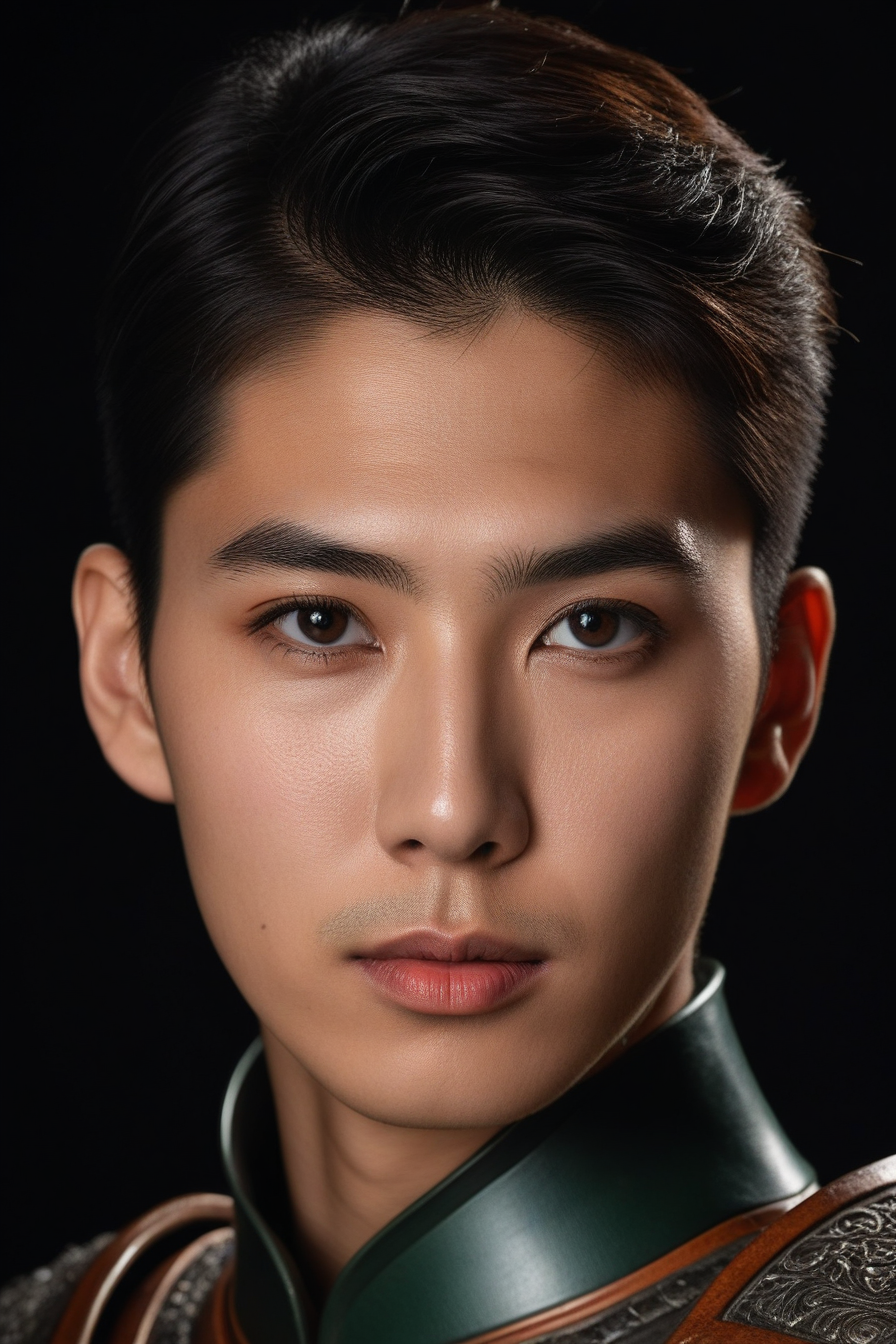
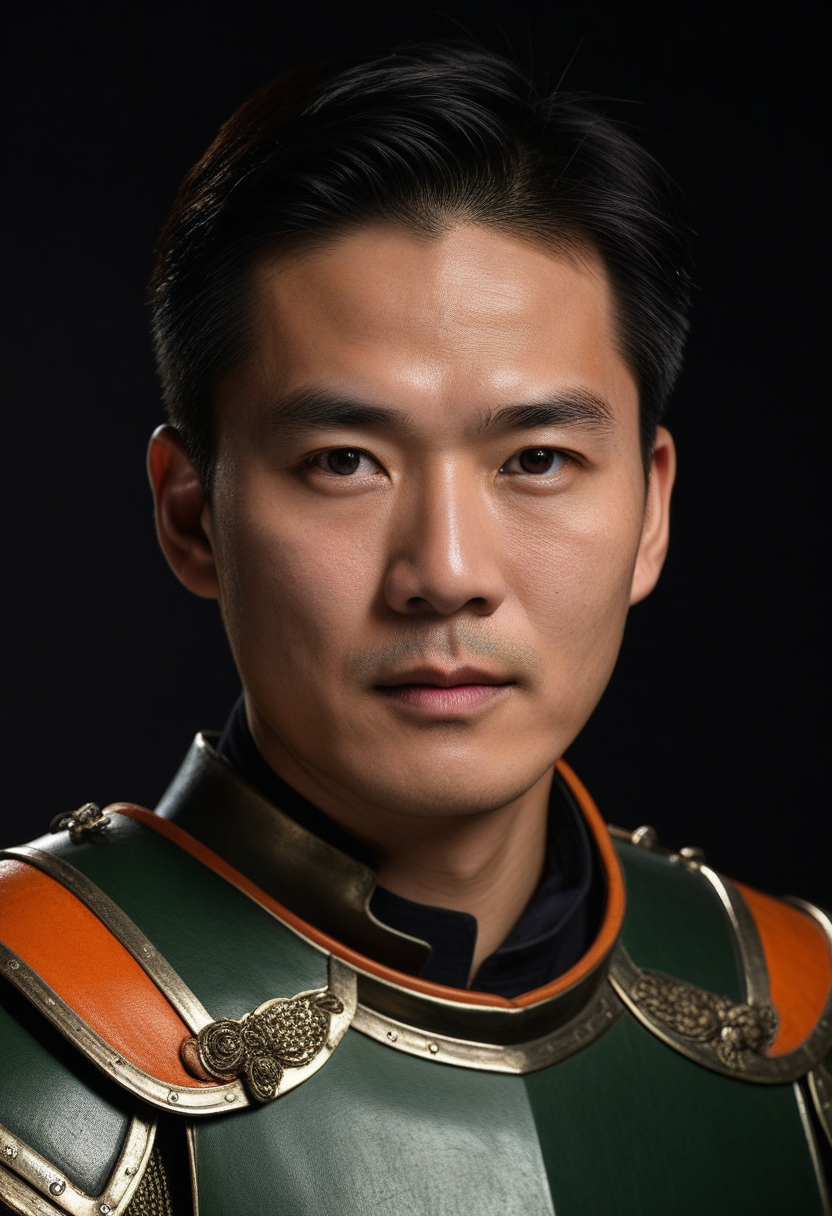
feat(v31): 24 角色写实立绘批量重生成（中文族裔/年龄/服装约束）+ 角色驱动试镜视频 demo
- 写实立绘 v2：按合同自动拼 prompt_extra（Chinese/East Asian/性别/年龄/发型/服装/配饰），逐角色重生成 24/24（298.6s，单条约 10-12.5s），修复旧版性别/族裔漂移
- 试镜视频 demo：老周写实立绘 16:9 → H3 audio_ref（TTS 台词 7.32s）→ 7.29s/1024x576/有音轨/3m11s 生成；/media/character_demos/laozhou_real_talk.mp4
- 证据：tmp/v31（v1/v2 对比图、24 角色总览、帧 sheet、UI 截图）；文档 docs/V31

diff --git a/docs/V31_CHARACTER_REAL_AND_VIDEO.md b/docs/V31_CHARACTER_REAL_AND_VIDEO.md
@@ -1,0 +1,66 @@
+# V31：写实立绘批量重生成（v2）+ 角色驱动试镜视频
+
+> 用户：「角色有 3D 角色/真人角色么」→ 确认 24 角色已有 动漫/2.5D/写实 三版；「好的开始做吧 还有 然后在根据角色生成一遍视频我看一下」
+> 交付：① 24 个角色写实立绘批量重生成（带中文族裔/年龄/服装约束，修复旧版偏差）；② 用角色立绘 + 角色声音生成一支 7.29s 试镜视频（H3 图生视频 + 口型同步）。
+
+## 1. 写实立绘批量重生成
+
+### 问题（旧版）
+- 旧 `portrait_real.png` 为 2026-10 早期生成：部分角色与设定不符（如曹操写实版偏女性化）、年龄/服装漂移
+- imagegen 默认 `realistic` 提示词（RealVisXL）偏向西方面孔，直接重生成会出现族裔漂移
+
+### 做法
+- 用 `POST /api/v5/characters/{id}/art {style:"realistic", prompt_extra, force:true}`
+- 按角色合同自动拼 `prompt_extra`：`Chinese + era（modern/历史）`、`East Asian facial features`、性别、年龄、发色+发型、服装类型+主色、配饰；robot/mystery_guest 单独提示词
+- 逐角色串行（GPU 锁），先备份旧图到 `tmp/v31/backup_real/`（v1 再备份 `backup_real_v1/`）
+
+### 结果
+| 轮次 | 角色数 | 总耗时 | 单角色 | 说明 |
+|---|---|---|---|---|
+| v1（无族裔约束） | 24 | 266.8s | 10.4–12.4s | 修复了曹操性别，但出现西方面孔漂移 |
+| **v2（中文族裔+年龄+服装）** | 24 | **298.6s** | 10.4–12.5s | **24/24 全部成功**，东亚面孔/性别/服装一致性明显改善 |
+
+- 产物：`assets/v5/characters/<id>/portrait_real.png` 24 张（832×1216，约 31.6MB），已提交
+- 对比：`tmp/v31/real_v1_v2_compare.jpg`（旧/v1/v2 三行对比）、`tmp/v31/real_all_24_v2.jpg`（24 角色 v2 总览）
+- 角色详情「立绘版本」切「写实」即可看到新图（cache-bust 已生效）
+
+## 2. 角色驱动试镜视频（demo）
+
+### 方法
+1. 选角色：老周（laozhou）
+2. 台词：`各位好，我是老周。今天这段戏，是用我的一张角色立绘直接生成的。`
+3. TTS：`POST /api/v5/voice/laozhou/preview`（edge 兜底）→ 7.32s 音频
+4. 参考图：写实立绘 v2 裁 16:9 → `tmp/v31/laozhou_ref_v2_169.png`（1024×576）
+5. H3 图生视频（口型同步）：
+   ```
+   python integrations/comfyui/run_h3_ref.py --mode audio_ref \
+     --image tmp/v31/laozhou_ref_v2_169.png --audio tmp/v5_voice/laozhou.wav \
+     --out tmp/v31/laozhou_real_talk_v2.mp4 --duration 7.32 \
+     --width 1024 --height 576 --fps 25 --seed 77 \
+     --prompt-file tmp/v31/prompt_real_v2.txt
+   ```
+
+### 结果
+| 项 | 值 |
+|---|---|
+| 成片 | **7.29s / 1.21MB / 1024×576 / 25fps / H.264+AAC 有音轨** |
+| 生成耗时 | **191.7s（3m11s）** |
+| 内容 | 老周（写实立绘）在深夜电台麦克风前说话，口型与台词同步，navy 西装+金领带保持 |
+| 访问 | `http://127.0.0.1:8090/media/character_demos/laozhou_real_talk.mp4` |
+| 帧 sheet | `outputs/character_demos/laozhou_real_talk_sheet.png` / `tmp/v31/laozhou_real_talk_v2_sheet.png` |
+| 参考图/音频 | `outputs/character_demos/laozhou_ref_169.png`、`laozhou_line.wav` |
+
+- 同一方法可对任意角色生成（换 portrait 参考图 + 角色 TTS），单条约 3–4 分钟
+- 说明：这是「立绘 → 图生视频 + 口型同步」的试镜 demo，不是完整 3D 分镜流水线；身份/服装保持较好，但年龄/背景会被模型轻微改写
+- 旧版（v1 写实立绘 + 弱提示词）对比视频：`tmp/v31/laozhou_real_talk.mp4`（效果较差，已保留作对比）
+
+## 3. 证据与提交
+- 对比图：`tmp/v31/real_v1_v2_compare.jpg`、`real_all_24_v2.jpg`
+- UI：`tmp/v31/lead/01_laozhou_real_v2.png`（角色详情写实版新图）
+- 视频：`outputs/character_demos/laozhou_real_talk.mp4`（/media 200）
+- 提交：24 张新写实立绘（assets）+ 本文档
+
+## 4. 遗留 / 后续
+- 2.5D 立绘未重生成（如需要可同法批量，约 5 分钟）
+- 写实生成使用 RealVisXL + 文本约束，个别角色（如历史人物）服装/年代感仍可再调
+- 可产品化：角色详情加「生成试镜视频」按钮（立绘 + 台词 + 声音 → H3 出片，约 3–4 分钟）
